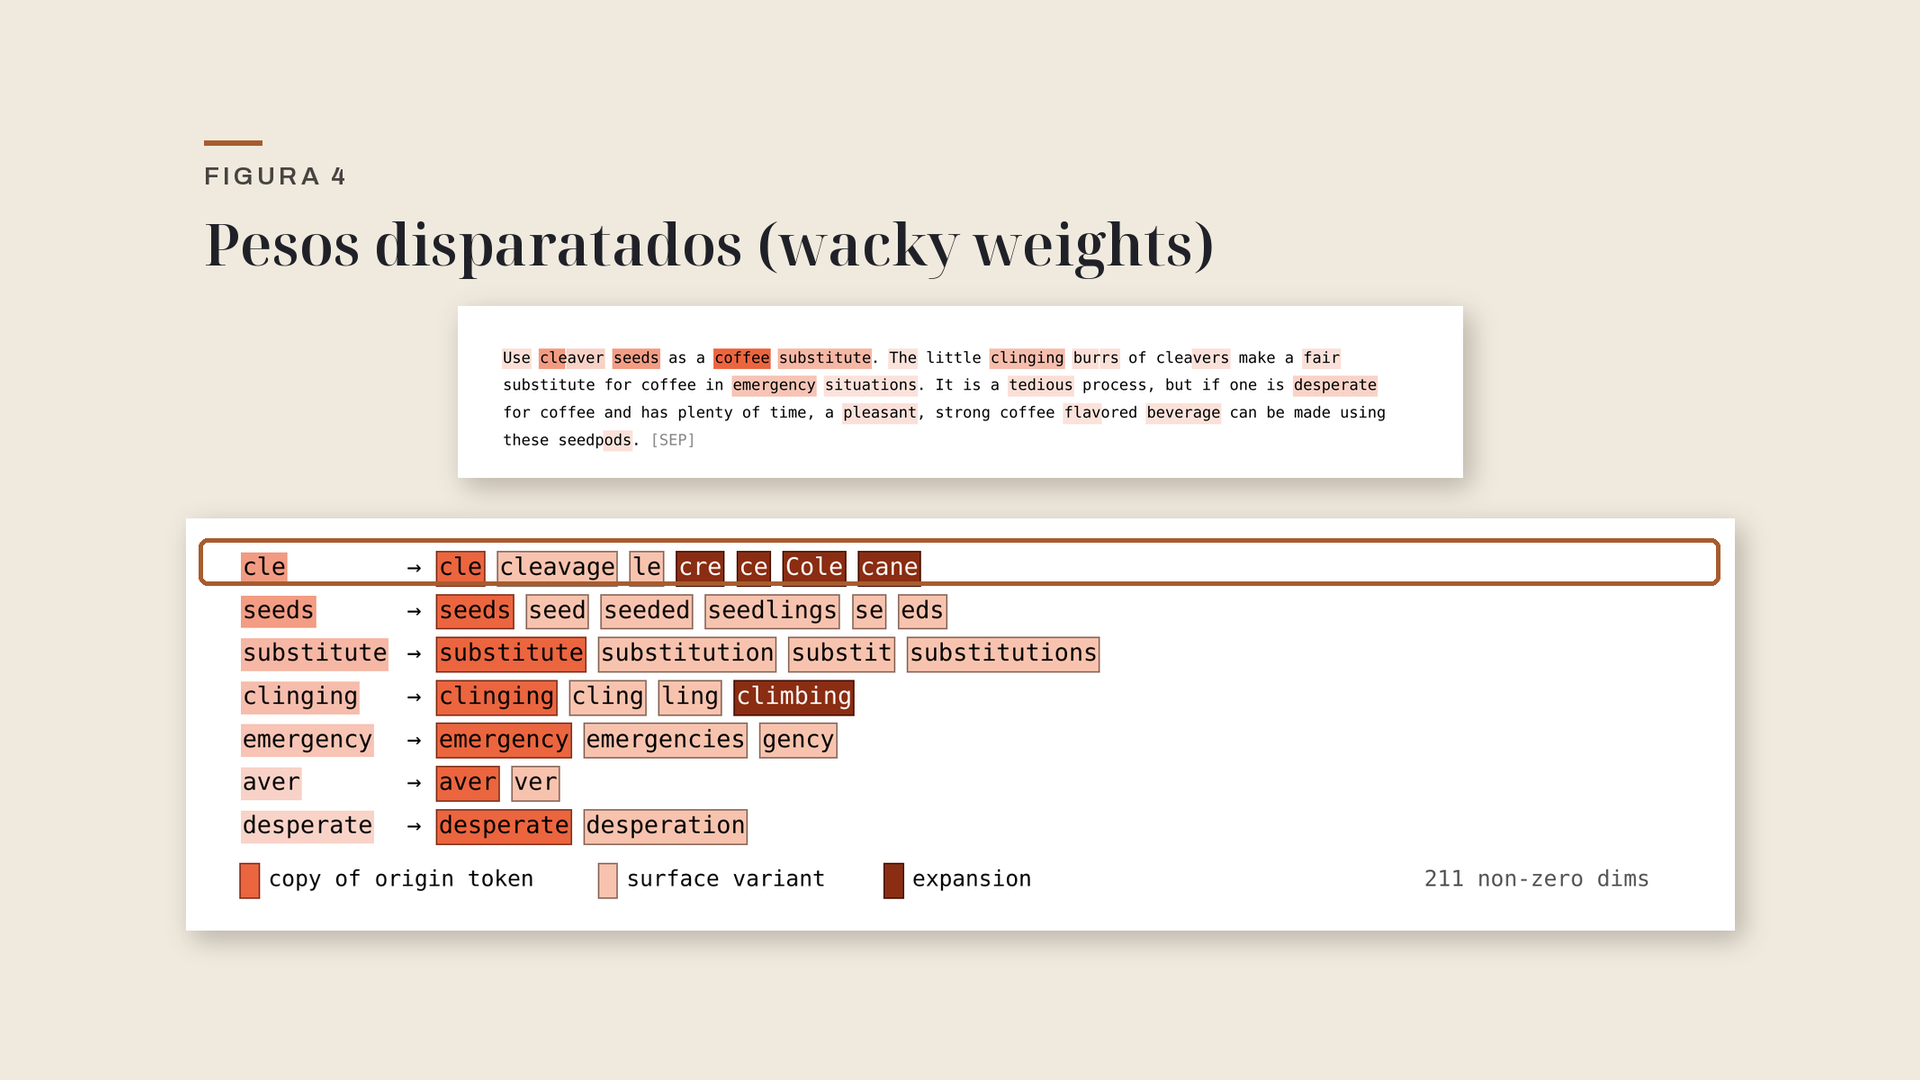
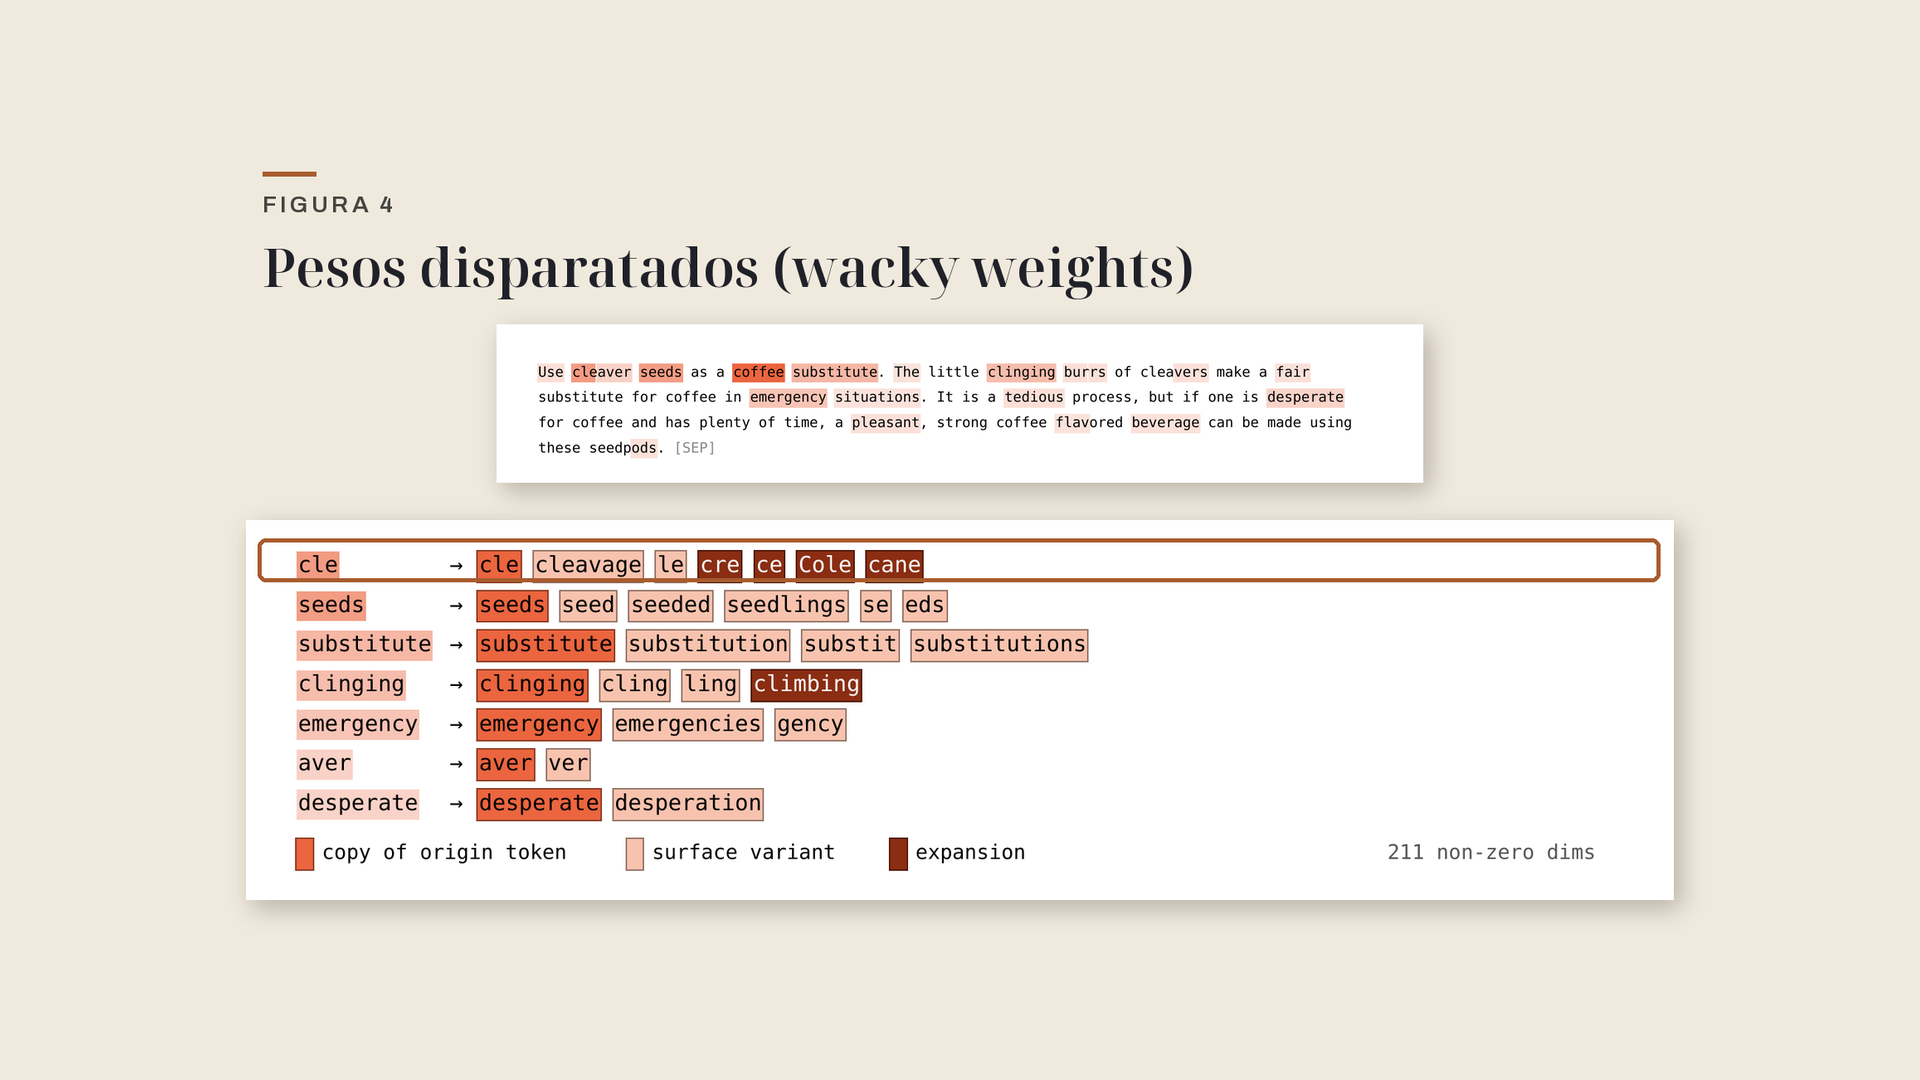
SPARSEUP: zoom real en LoTTE y Ken Burns que no come texto
m9-01a tenía motion: none, por eso 6:43 y 6:47 eran idénticos. Ahora
hace zoom_in sobre las columnas LoTTE Forum/Search. La ablación del
umbral y otros planos con texto recortado usan el gráfico completo,
con margen para que el último fotograma deje al menos un 5 %.

Changed region(s): [[0.0938, 0.4583, 0.9062, 0.8861], [0.0938, 0.1222, 0.7812, 0.4583]]

diff --git a/scripts/make_sparseup_boards.py b/scripts/make_sparseup_boards.py
@@ -153,7 +153,7 @@ A05_LABELS = [
 
 
 
-def copy_padded(name: str, dest: Path, pad: float = 0.05) -> None:
+def copy_padded(name: str, dest: Path, pad: float = 0.085) -> None:
     """Place the full graphic on a cream field so an 8 % Ken Burns still leaves a margin."""
     im = _open(name).resize((W, H), Image.Resampling.LANCZOS)
     canvas = Image.new("RGB", (W, H), im.getpixel((2, 2)))
@@ -177,27 +177,57 @@ A13_ROWS = [
 
 
 def lotte_columns(dest: Path) -> None:
-    """Blow up LoTTE Forum / LoTTE Search next to the model names, keeping the title."""
+    """Large crop of LoTTE Forum / Search, inset so an 8 % zoom still leaves a 5 % margin."""
     im = _open("a19_lotte_tabla2.png").resize((W, H), Image.Resampling.LANCZOS)
     paper = im.getpixel((20, 20))
     canvas = Image.new("RGB", (W, H), paper)
-    # Tight title band (kicker + heading).
-    canvas.paste(im.crop((0, 80, W, 320)), (0, 50))
-    # Model names only (no CURE-en figures) + the LoTTE columns, all five rows.
+    # 9 % inset: after zoom_in to 1.08 the last frame still has >= 5 % margin.
+    ml, mt, mr, mb = int(0.09 * W), int(0.09 * H), int(0.09 * W), int(0.09 * H)
+    inner_w, inner_h = W - ml - mr, H - mt - mb
+    # Compact title (kicker + heading), leaving most of the frame for the table.
+    title = im.crop((80, 100, 1100, 300))
+    tw = min(int(inner_w * 0.85), title.width)
+    th = int(title.height * tw / title.width)
+    title = title.resize((tw, th), Image.Resampling.LANCZOS)
+    canvas.paste(title, (ml, mt))
+    # Model names + LoTTE Forum / LoTTE Search, all five rows.
     model = im.crop((108, 410, 318, 694))
     lotte = im.crop((1158, 410, 1466, 694))
-    gap = 0
-    stitched = Image.new("RGB", (model.width + gap + lotte.width, model.height), paper)
+    stitched = Image.new("RGB", (model.width + lotte.width, model.height), paper)
     stitched.paste(model, (0, 0))
-    stitched.paste(lotte, (model.width + gap, 0))
-    # Fit between the title (~y=50-290) and the caption (~y=820).
-    max_h, max_w = 500, 1500
-    scale = min(max_w / stitched.width, max_h / stitched.height)
+    stitched.paste(lotte, (model.width, 0))
+    # Highlight the SPARSEUP row (4th of 5 data rows under the header).
+    from PIL import ImageDraw as _ID
+    d = _ID.Draw(stitched.convert("RGBA"))
+    # header occupies ~27 % of the table height; 5 rows share the rest.
+    header_h = int(stitched.height * 0.18)
+    row_h = (stitched.height - header_h) / 5
+    # SPARSEUP is row index 3 (0-based among data rows)
+    y0 = int(header_h + 3 * row_h)
+    y1 = int(header_h + 4 * row_h)
+    overlay = Image.new("RGBA", stitched.size, (0, 0, 0, 0))
+    od = _ID.Draw(overlay)
+    od.rectangle((0, y0, stitched.width - 1, y1), fill=(186, 102, 48, 40),
+                 outline=(186, 102, 48, 200), width=3)
+    stitched = Image.alpha_composite(stitched.convert("RGBA"), overlay).convert("RGB")
+    cap_h = 120
+    gap = 10
+    max_th = inner_h - th - cap_h - 2 * gap
+    scale = min(inner_w / stitched.width, max_th / stitched.height)
     nw, nh = int(stitched.width * scale), int(stitched.height * scale)
     stitched = stitched.resize((nw, nh), Image.Resampling.LANCZOS)
-    x, y = (W - nw) // 2, 300
-    canvas.paste(stitched, (x, y))
-    canvas.paste(im.crop((0, 800, W, 1080)), (0, 800))
+    tx = ml + (inner_w - nw) // 2
+    ty = mt + th + gap
+    canvas.paste(stitched, (tx, ty))
+    # Caption under the table, still inside the inset.
+    cap = im.crop((80, 800, 1840, 1040))
+    cw = inner_w
+    ch = int(cap.height * cw / cap.width)
+    if ty + nh + gap + ch > H - mb:
+        ch = max(80, H - mb - (ty + nh + gap))
+        cw = int(cap.width * ch / cap.height)
+    cap = cap.resize((cw, ch), Image.Resampling.LANCZOS)
+    canvas.paste(cap, (ml + (inner_w - cw) // 2, ty + nh + gap))
     _save(canvas, dest)
 
 
@@ -391,13 +421,13 @@ def _plan() -> list[tuple[int, dict, object]]:
     add(5, graf("m5-03",
                 "Con eso, la representación arranca más dispersa, y RoBERTa-Large vuelve a entrenar.",
                 "zoom_in"),
-        lambda d: focus("a07_fig1_derecha.png", (80, 80, 1840, 700), d))
+        lambda d: copy_padded("a07_fig1_derecha.png", d))
     add(5, graf("m5-04a", "El truco no es nuevo: ya aparecía en el trabajo de Geng y Yang."),
-        lambda d: focus("a07_fig1_derecha.png", (80, 480, 1840, 1040), d))
+        lambda d: copy_padded("a07_fig1_derecha.png", d))
     add(5, graf("m5-04b",
                 "Aquí muestran cómo fijar el umbral, y que basta para desbloquear redes que antes fallaban o rendían por debajo.",
                 "zoom_in"),
-        lambda d: focus("a07_fig1_derecha.png", (80, 480, 1840, 1040), d))
+        lambda d: copy_padded("a07_fig1_derecha.png", d))
 
     # ----- Módulo 6 · Fan-out -----
     add(6, title_shot("m6-00", TITLES[6]))
@@ -408,16 +438,16 @@ def _plan() -> list[tuple[int, dict, object]]:
         lambda d: copy_full("a09_fanout.png", d))
     add(6, graf("m6-02",
                 "Si se deja libre, cada posición puede disparar una cola larga de términos que no aportan, y eso mete ruido.",
-                "pan_right"),
-        lambda d: focus("a09_fanout.png", (700, 200, 1880, 980), d))
+                "zoom_in"),
+        lambda d: copy_padded("a09_fanout.png", d))
     add(6, graf("m6-03", "Un límite de 8 o de 12 gana a no poner ninguno.", "zoom_in"),
-        lambda d: focus("a10_fig2_fanout.png", (80, 200, 1000, 980), d))
+        lambda d: copy_padded("a10_fig2_fanout.png", d))
     add(6, graf("m6-04a", "Y gana también a limitarse a apretar el regularizador de escasez:"),
-        lambda d: focus("a10_fig2_fanout.png", (920, 200, 1860, 980), d))
+        lambda d: copy_padded("a10_fig2_fanout.png", d))
     add(6, graf("m6-04b",
                 "ese camino sí deja vectores más dispersos, pero pierde más calidad a igual escasez.",
                 "zoom_in"),
-        lambda d: focus("a10_fig2_fanout.png", (920, 200, 1860, 980), d))
+        lambda d: copy_padded("a10_fig2_fanout.png", d))
 
     # ----- Módulo 7 · Plegado -----
     add(7, title_shot("m7-00", TITLES[7]))
@@ -515,19 +545,20 @@ def _plan() -> list[tuple[int, dict, object]]:
     # ----- Módulo 9 · Límites -----
     add(9, title_shot("m9-00", TITLES[9]))
     add(9, graf("m9-01a",
-                "No gana en todas partes. En LoTTE, tanto en foros como en búsqueda, queda por detrás de los modelos densos y de interacción tardía."),
+                "No gana en todas partes. En LoTTE, tanto en foros como en búsqueda, queda por detrás de los modelos densos y de interacción tardía.",
+                "zoom_in"),
         lambda d: lotte_columns(d))
     add(9, graf("m9-01b", "El artículo no explica el motivo.", "zoom_in"),
         lambda d: lotte_columns(d))
     add(9, graf("m9-02a", "Las representaciones tampoco son limpias.", "zoom_in"),
-        lambda d: copy_padded("a20_fig4_cleaver.png", d, 0.05))
+        lambda d: copy_padded("a20_fig4_cleaver.png", d))
     add(9, graf("m9-02b",
                 "Como el tokenizador parte las palabras en subpiezas, a veces se activan términos que no vienen a cuento.",
                 "zoom_in"),
-        lambda d: copy_padded("a20_fig4_cleaver.png", d, 0.05))
+        lambda d: copy_padded("a20_fig4_cleaver.png", d))
     add(9, graf("m9-03",
                 "En un ejemplo, el trozo «cle», de «cleaver», dispara también «cleavage», «Cole» o «cane». Son los llamados wacky weights, pesos disparatados."),
-        lambda d: copy_padded("a20_fig4_cleaver.png", d, 0.05))
+        lambda d: copy_padded("a20_fig4_cleaver.png", d))
     add(9, card("m9-04a", "El abanico lo mitiga en parte, pero no lo quita.",
                 {"kicker": "Los límites",
                  "title": "El abanico lo mitiga, no lo quita",
